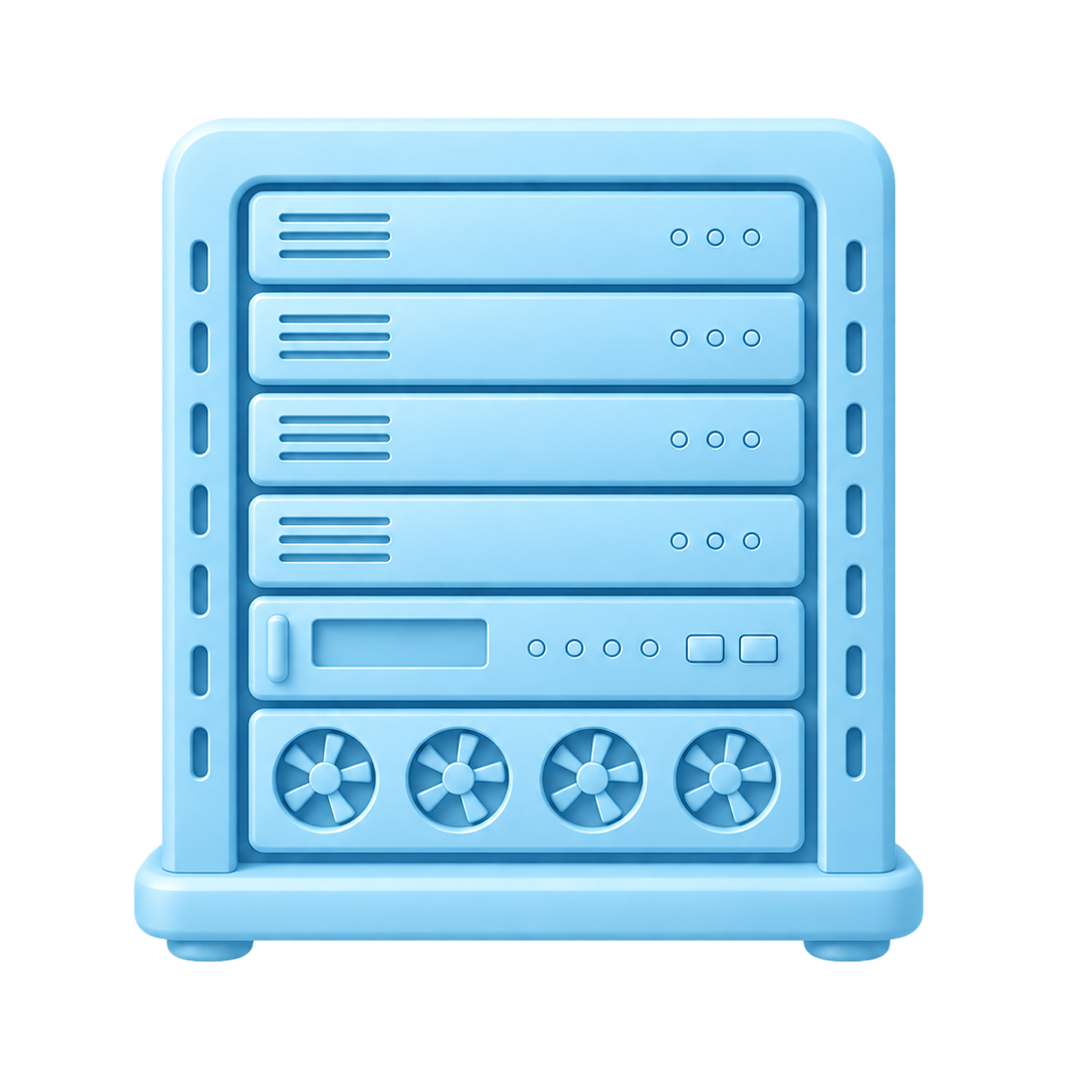
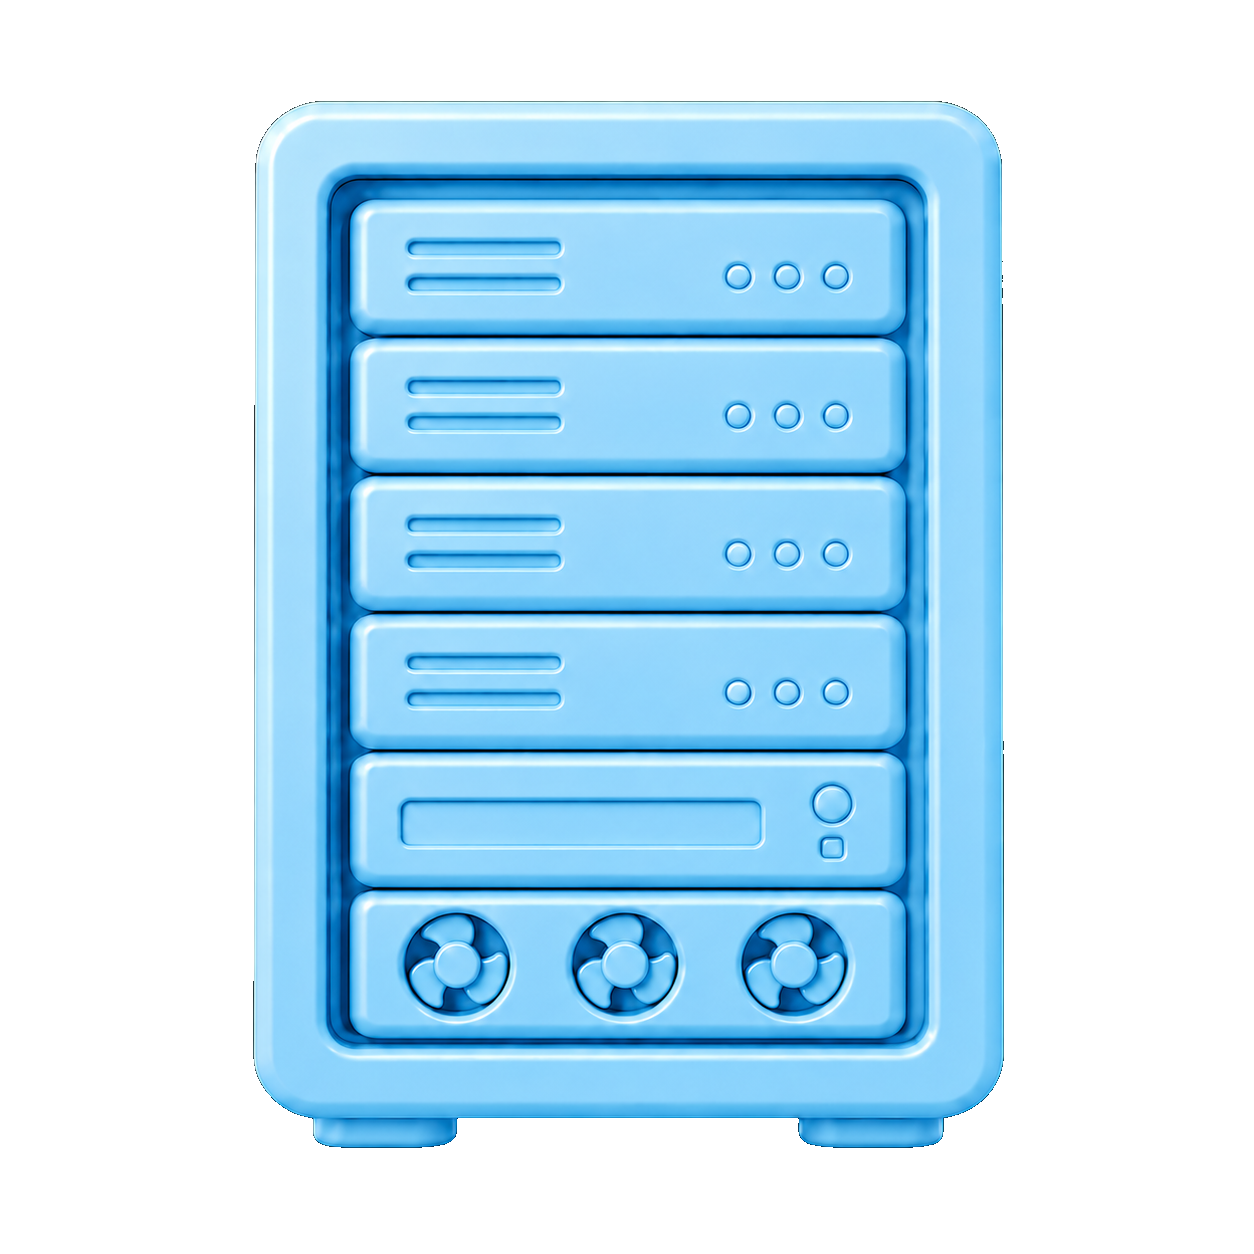
update

diff --git a/src/hooks/sectionGrid/cursorTheme.js b/src/hooks/sectionGrid/cursorTheme.js
@@ -31,54 +31,45 @@ function makeHighlight(entry, opacity = getSectionHighlightOpacity(entry)) {
   return { section: entry.element, color: entry.color, opacity };
 }
 
-function applyZoneOverride(theme, current, clientX, clientY) {
+const HIDDEN_ZONE_OVERLAY = {
+  zoneColor: 'transparent',
+  zoneInsetTop: 100,
+  zoneInsetRight: 100,
+  zoneInsetBottom: 100,
+  zoneInsetLeft: 100
+};
+
+function applyZoneOverlay(theme, current, clientX, clientY, dotSize) {
   const zoneConfig = current.zones;
-  if (!zoneConfig) return theme;
+  if (!zoneConfig) return { ...theme, ...HIDDEN_ZONE_OVERLAY };
 
   const zoneElements = current.element.querySelectorAll(zoneConfig.selector);
-  if (!zoneElements.length) return theme;
+  if (!zoneElements.length) return { ...theme, ...HIDDEN_ZONE_OVERLAY };
 
-  const dotTop = clientY - SECTION_CURSOR_DOT_SIZE / 2;
-  const dotBottom = clientY + SECTION_CURSOR_DOT_SIZE / 2;
+  const dotLeft = clientX - dotSize / 2;
+  const dotRight = clientX + dotSize / 2;
+  const dotTop = clientY - dotSize / 2;
+  const dotBottom = clientY + dotSize / 2;
 
   for (const zoneElement of zoneElements) {
     const rect = zoneElement.getBoundingClientRect();
-    if (clientX < rect.left || clientX > rect.right) continue;
+    if (dotRight <= rect.left || dotLeft >= rect.right) continue;
+    if (dotBottom <= rect.top || dotTop >= rect.bottom) continue;
 
-    if (dotBottom < rect.top || dotTop > rect.bottom) continue;
-
-    if (dotTop >= rect.top && dotBottom <= rect.bottom) {
-      return {
-        ...theme,
-        topColor: zoneConfig.color,
-        bottomColor: zoneConfig.color,
-        split: '100%'
-      };
-    }
-
-    if (rect.top >= dotTop && rect.top <= dotBottom) {
-      return {
-        ...theme,
-        topColor: current.color,
-        bottomColor: zoneConfig.color,
-        split: `${clamp(((rect.top - dotTop) / SECTION_CURSOR_DOT_SIZE) * 100, 0, 100).toFixed(2)}%`
-      };
-    }
-
-    if (rect.bottom >= dotTop && rect.bottom <= dotBottom) {
-      return {
-        ...theme,
-        topColor: zoneConfig.color,
-        bottomColor: current.color,
-        split: `${clamp(((rect.bottom - dotTop) / SECTION_CURSOR_DOT_SIZE) * 100, 0, 100).toFixed(2)}%`
-      };
-    }
+    return {
+      ...theme,
+      zoneColor: zoneConfig.color,
+      zoneInsetTop: clamp(((rect.top - dotTop) / dotSize) * 100, 0, 100),
+      zoneInsetRight: clamp(((dotRight - rect.right) / dotSize) * 100, 0, 100),
+      zoneInsetBottom: clamp(((dotBottom - rect.bottom) / dotSize) * 100, 0, 100),
+      zoneInsetLeft: clamp(((rect.left - dotLeft) / dotSize) * 100, 0, 100)
+    };
   }
 
-  return theme;
+  return { ...theme, ...HIDDEN_ZONE_OVERLAY };
 }
 
-export function getSectionCursorTheme(document, clientX, clientY) {
+export function getSectionCursorTheme(document, clientX, clientY, dotSize = SECTION_CURSOR_DOT_SIZE) {
   const sectionEntries = buildSectionEntries(document);
   const currentIndex = sectionEntries.findIndex(({ rect }) => (
     clientY >= rect.top && clientY <= rect.bottom
@@ -93,8 +84,8 @@ export function getSectionCursorTheme(document, clientX, clientY) {
   const bottomBorder = current.rect.bottom;
   const distanceFromTop = clientY - topBorder;
   const distanceFromBottom = bottomBorder - clientY;
-  const dotTop = clientY - SECTION_CURSOR_DOT_SIZE / 2;
-  const dotBottom = clientY + SECTION_CURSOR_DOT_SIZE / 2;
+  const dotTop = clientY - dotSize / 2;
+  const dotBottom = clientY + dotSize / 2;
 
   if (currentIndex > 0 && distanceFromTop <= SECTION_GRID_HIGHLIGHT_DISTANCE) {
     const neighbor = sectionEntries[currentIndex - 1];
@@ -109,27 +100,27 @@ export function getSectionCursorTheme(document, clientX, clientY) {
   }
 
   if (currentIndex > 0 && topBorder >= dotTop && topBorder <= dotBottom) {
-    return applyZoneOverride({
+    return applyZoneOverlay({
       highlights,
       topColor: sectionEntries[currentIndex - 1].color,
       bottomColor: current.color,
-      split: `${clamp(((topBorder - dotTop) / SECTION_CURSOR_DOT_SIZE) * 100, 0, 100).toFixed(2)}%`
-    }, current, clientX, clientY);
+      split: `${clamp(((topBorder - dotTop) / dotSize) * 100, 0, 100).toFixed(2)}%`
+    }, current, clientX, clientY, dotSize);
   }
 
   if (currentIndex < sectionEntries.length - 1 && bottomBorder >= dotTop && bottomBorder <= dotBottom) {
-    return applyZoneOverride({
+    return applyZoneOverlay({
       highlights,
       topColor: current.color,
       bottomColor: sectionEntries[currentIndex + 1].color,
-      split: `${clamp(((bottomBorder - dotTop) / SECTION_CURSOR_DOT_SIZE) * 100, 0, 100).toFixed(2)}%`
-    }, current, clientX, clientY);
+      split: `${clamp(((bottomBorder - dotTop) / dotSize) * 100, 0, 100).toFixed(2)}%`
+    }, current, clientX, clientY, dotSize);
   }
 
-  return applyZoneOverride({
+  return applyZoneOverlay({
     highlights,
     topColor: current.color,
     bottomColor: current.color,
     split: '100%'
-  }, current, clientX, clientY);
+  }, current, clientX, clientY, dotSize);
 }

diff --git a/src/hooks/sectionGrid/gridBurst.js b/src/hooks/sectionGrid/gridBurst.js
@@ -42,11 +42,20 @@ function getSectionBurstRgb(section) {
   return getRgbFromHex(color) || DEFAULT_SECTION_GRID_BURST_RGB;
 }
 
-function setGridBurstShapeProperties(element, burstPoint, rgb) {
+function getSectionBurstOpacityScale(section) {
+  if (!section) return 1;
+  const raw = getComputedStyle(section).getPropertyValue('--section-grid-burst-opacity-scale');
+  const parsed = Number.parseFloat(raw);
+  return Number.isFinite(parsed) && parsed > 0 ? parsed : 1;
+}
+
+function setGridBurstShapeProperties(element, burstPoint, rgb, sectionScale = 1) {
+  const opacityScale = burstPoint.opacityScale * sectionScale;
+  const clampedOpacity = (base) => Math.min(1, base * opacityScale).toFixed(3);
   element.style.setProperty('--section-grid-burst-rgb', rgb.join(', '));
-  element.style.setProperty('--section-grid-burst-peak-opacity', (0.52 * burstPoint.opacityScale).toFixed(3));
-  element.style.setProperty('--section-grid-burst-mid-opacity', (0.34 * burstPoint.opacityScale).toFixed(3));
-  element.style.setProperty('--section-grid-burst-late-opacity', (0.13 * burstPoint.opacityScale).toFixed(3));
+  element.style.setProperty('--section-grid-burst-peak-opacity', clampedOpacity(0.52));
+  element.style.setProperty('--section-grid-burst-mid-opacity', clampedOpacity(0.34));
+  element.style.setProperty('--section-grid-burst-late-opacity', clampedOpacity(0.13));
   element.style.setProperty('--section-grid-burst-early-radius', `${burstPoint.earlyRadius.toFixed(2)}px`);
   element.style.setProperty('--section-grid-burst-mid-radius', `${burstPoint.midRadius.toFixed(2)}px`);
   element.style.setProperty('--section-grid-burst-late-radius', `${burstPoint.lateRadius.toFixed(2)}px`);
@@ -72,10 +81,11 @@ function updateCardGridBurst(card, clientX, clientY, burstPoint) {
   const cardRect = card.getBoundingClientRect();
   const section = card.closest('section.section-grid-bg');
   const rgb = section ? getSectionBurstRgb(section) : DEFAULT_SECTION_GRID_BURST_RGB;
+  const sectionScale = getSectionBurstOpacityScale(section);
 
   card.style.setProperty('--card-grid-burst-x', `${(clientX - cardRect.left).toFixed(2)}px`);
   card.style.setProperty('--card-grid-burst-y', `${(clientY - cardRect.top).toFixed(2)}px`);
-  setGridBurstShapeProperties(card, burstPoint, rgb);
+  setGridBurstShapeProperties(card, burstPoint, rgb, sectionScale);
 }
 
 function removeGridBurstElement(burstElement, timeoutMap, windowObject) {
@@ -138,11 +148,23 @@ export function getGridBurstTargetSections(mainElement, clientX, clientY, burstO
   return targetSections;
 }
 
-export function getGridBurstTargetCards(targetSections, target) {
-  const card = getSolutionCardFromTarget(target);
-  const section = card?.closest('section.section-grid-bg');
+export function getGridBurstTargetCards(targetSections, target, clientX, clientY, burstOuterRadius) {
+  const cards = new Set();
 
-  return card && targetSections.includes(section) ? [card] : [];
+  const clickedCard = getSolutionCardFromTarget(target);
+  if (clickedCard && targetSections.includes(clickedCard.closest('section.section-grid-bg'))) {
+    cards.add(clickedCard);
+  }
+
+  targetSections.forEach((section) => {
+    section.querySelectorAll(CARD_GRID_ANCHOR_SELECTOR).forEach((card) => {
+      if (getPointToRectDistance(clientX, clientY, card.getBoundingClientRect()) <= burstOuterRadius) {
+        cards.add(card);
+      }
+    });
+  });
+
+  return Array.from(cards);
 }
 
 export function restartSolutionCardBurst(card, clientX, clientY, burstPoint, timeoutMap, windowObject) {
@@ -186,7 +208,12 @@ export function appendSectionGridBurst(ownerDocument, targetSection, clientX, cl
   burstElement.className = 'section-grid-burst';
   burstElement.style.setProperty('--section-grid-burst-x', `${burstX.toFixed(2)}px`);
   burstElement.style.setProperty('--section-grid-burst-y', `${burstY.toFixed(2)}px`);
-  setGridBurstShapeProperties(burstElement, burstPoint, getSectionBurstRgb(targetSection));
+  setGridBurstShapeProperties(
+    burstElement,
+    burstPoint,
+    getSectionBurstRgb(targetSection),
+    getSectionBurstOpacityScale(targetSection)
+  );
 
   targetSection.appendChild(burstElement);
 

diff --git a/src/styles/sections/section-grid.css b/src/styles/sections/section-grid.css
@@ -228,14 +228,15 @@
 }
 
 .section-grid-bg--web {
-  --section-bg: #aebed0;
+  --section-bg: #9caabb;
   --section-grid-color: rgba(32, 54, 88, 0.045);
   --section-grid-burst-rgb: 32, 54, 88;
   --section-grid-highlight-color: #203658;
 }
 
 .section-grid-bg--software {
-  --section-bg: #c2d0e0;
+  --section-bg: #aebed0;
+  --section-grid-burst-opacity-scale: 1.85;
 }
 
 .section-grid-bg--infrastructure {
@@ -300,6 +301,11 @@
   --section-cursor-top-color: #1f4f8f;
   --section-cursor-bottom-color: #1f4f8f;
   --section-cursor-split: 100%;
+  --section-cursor-zone-color: transparent;
+  --section-cursor-zone-inset-top: 100%;
+  --section-cursor-zone-inset-right: 100%;
+  --section-cursor-zone-inset-bottom: 100%;
+  --section-cursor-zone-inset-left: 100%;
   position: fixed;
   top: 0;
   left: 0;
@@ -324,6 +330,21 @@
     width 180ms ease,
     height 180ms ease,
     opacity 120ms ease;
+}
+
+.section-cursor-dot::before {
+  content: "";
+  position: absolute;
+  inset: 0;
+  border-radius: inherit;
+  background: var(--section-cursor-zone-color);
+  clip-path: inset(
+    var(--section-cursor-zone-inset-top)
+    var(--section-cursor-zone-inset-right)
+    var(--section-cursor-zone-inset-bottom)
+    var(--section-cursor-zone-inset-left)
+  );
+  pointer-events: none;
 }
 
 @media (pointer: coarse), (prefers-reduced-motion: reduce) {

diff --git a/src/hooks/sectionGrid/useSectionCursor.js b/src/hooks/sectionGrid/useSectionCursor.js
@@ -54,7 +54,8 @@ export function useSectionCursor() {
 
     updateHeroGraphicCursorState(mainElement, clientX, clientY);
 
-    const theme = getSectionCursorTheme(ownerDocument, clientX, clientY);
+    const dotSize = cursorElement.getBoundingClientRect().width || 20;
+    const theme = getSectionCursorTheme(ownerDocument, clientX, clientY, dotSize);
     if (!theme) {
       clearSectionHighlights();
       return;
@@ -95,6 +96,11 @@ export function useSectionCursor() {
     cursorElement.style.setProperty('--section-cursor-top-color', theme.topColor);
     cursorElement.style.setProperty('--section-cursor-bottom-color', theme.bottomColor);
     cursorElement.style.setProperty('--section-cursor-split', theme.split);
+    cursorElement.style.setProperty('--section-cursor-zone-color', theme.zoneColor);
+    cursorElement.style.setProperty('--section-cursor-zone-inset-top', `${theme.zoneInsetTop.toFixed(2)}%`);
+    cursorElement.style.setProperty('--section-cursor-zone-inset-right', `${theme.zoneInsetRight.toFixed(2)}%`);
+    cursorElement.style.setProperty('--section-cursor-zone-inset-bottom', `${theme.zoneInsetBottom.toFixed(2)}%`);
+    cursorElement.style.setProperty('--section-cursor-zone-inset-left', `${theme.zoneInsetLeft.toFixed(2)}%`);
     cursorElement.style.setProperty('--section-cursor-opacity', '1');
   }, [clearSectionHighlights]);
 

diff --git a/src/hooks/useSectionGridInteractions.js b/src/hooks/useSectionGridInteractions.js
@@ -181,7 +181,10 @@ export function useSectionGridInteractions() {
     );
     const targetCards = getGridBurstTargetCards(
       targetSections,
-      target
+      target,
+      clientX,
+      clientY,
+      burstOuterRadius
     );
 
     targetCards.forEach((card) => {

diff --git a/src/hooks/sectionGrid/constants.js b/src/hooks/sectionGrid/constants.js
@@ -52,7 +52,7 @@ export const SECTION_CURSOR_THEMES = [
   {
     id: 'software-automazione',
     color: SOFTWARE_SECTION_THEME_COLOR,
-    highlightOpacity: 0.18
+    highlightOpacity: 0.75
   },
   {
     id: 'infrastrutture-hardware',